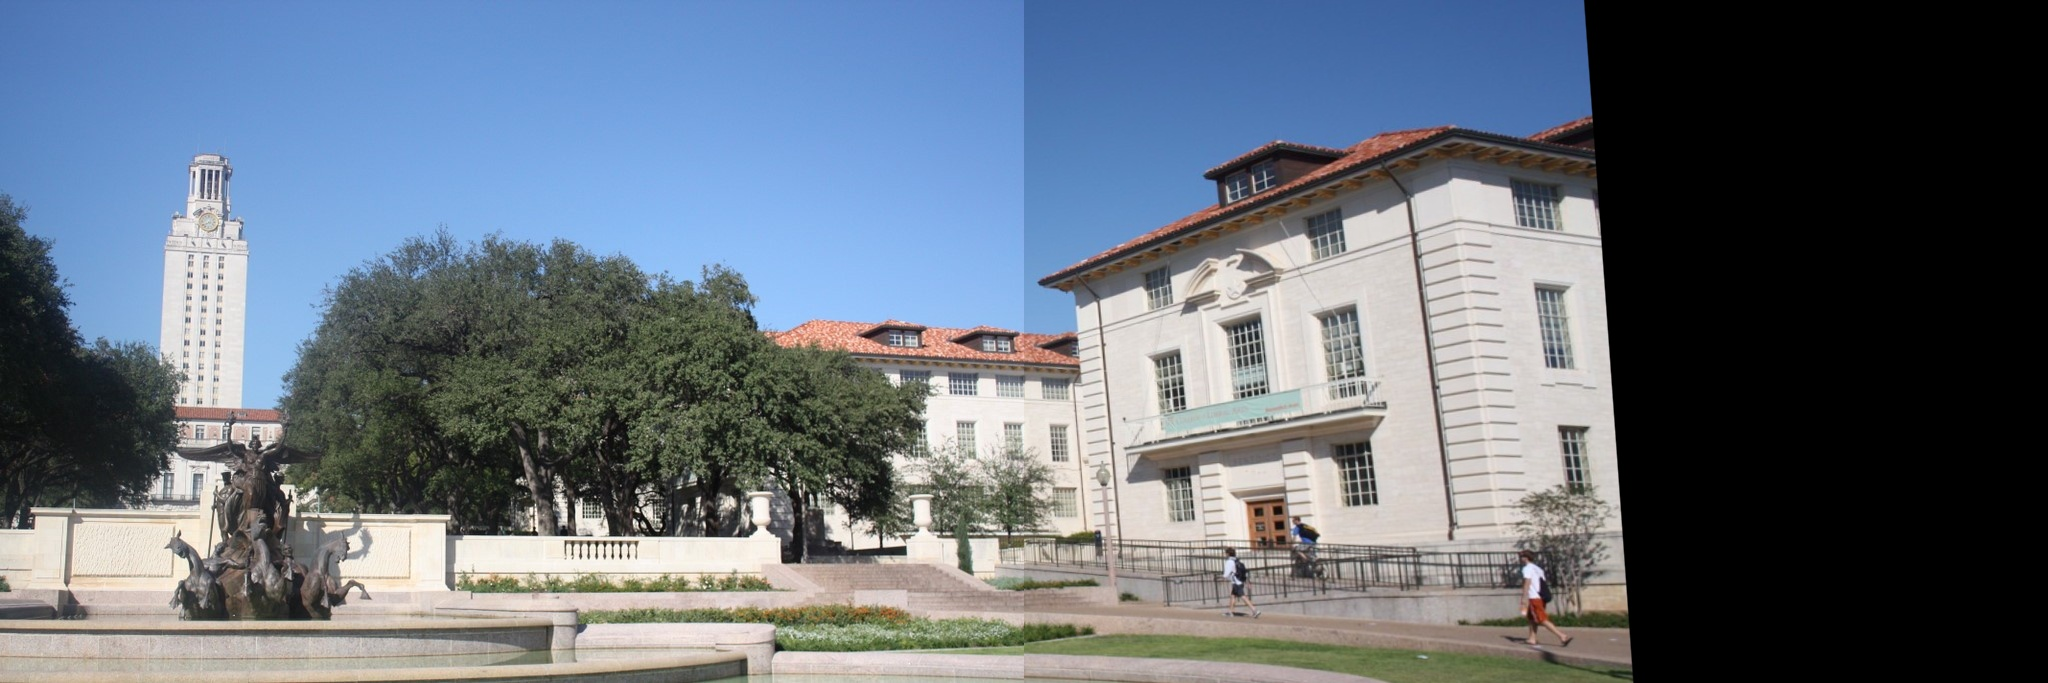
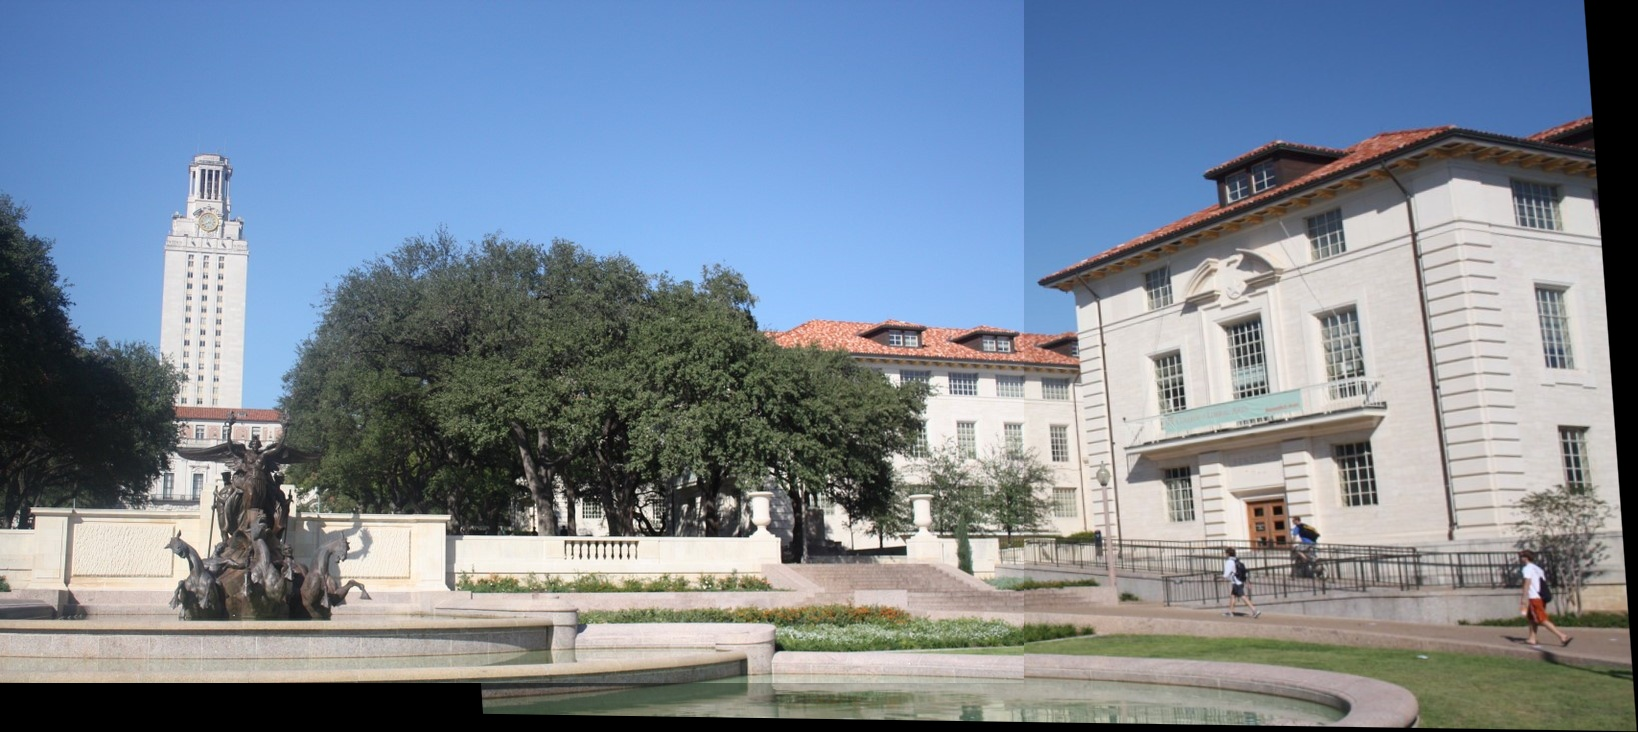
Improved panoramic image size

diff --git a/projeto 4/panoramic_image.py b/projeto 4/panoramic_image.py
@@ -4,10 +4,13 @@ import numpy as np
 
 class PanoramicImage:
 
-    def __init__(self, image_path):
-        self.image = self.original_image = cv2.imread(image_path)
-        self.key_points = None
-        self.descriptor = None
+    def __init__(self, image_path=None):
+        self.image_path = image_path
+
+        if image_path is not None:
+            self.image = self.original_image = cv2.imread(image_path)
+            self.key_points = None
+            self.descriptor = None
 
     def reset_to_original_image(self) -> None:
         """
@@ -34,7 +37,7 @@ class PanoramicImage:
         homography_matrix, _ = cv2.findHomography(points1, points2, cv2.RANSAC, 5.0)
         return homography_matrix
 
-    def merge_panoramic(self, other_image: 'PanoramicImage', homography_matrix):
+    def merge_panoramic(self, other_image: 'PanoramicImage', homography_matrix) -> 'PanoramicImage':
         """
         Casa duas imagens para formar uma foto panorâmica
         :param other_image: imagem a casar
@@ -46,23 +49,54 @@ class PanoramicImage:
         rows_2 = other_image.image.shape[0]
         cols_2 = other_image.image.shape[1]
 
-        result_image_rows = max(rows_1, rows_2)
+        result_image_rows = rows_1 + rows_2
         result_image_cols = cols_1 + cols_2
 
         result = cv2.warpPerspective(self.image, homography_matrix, (result_image_cols, result_image_rows))
-        result[0:result_image_rows, 0:cols_2] = other_image.image
+        result[0:rows_2, 0:cols_2] = other_image.image
 
-        return result
+        panoramic_image = PanoramicImage()
+        panoramic_image.image = result
 
-    def image_matches(self, other_image: 'PanoramicImage', max_draw=15):
+        return panoramic_image
+
+    def image_matches(self, other_image: 'PanoramicImage', max_draw=15) -> 'PanoramicImage':
         """
         Desenha as duas imagens e suas semelhanças
         :param other_image: imagem a ser comparada
         :param max_draw: quantidade máxima de semelhanças a serem desenhadas
-        :return:
+        :return: imagem com retas entre seus pontos de semelhança
         """
         bf = cv2.BFMatcher(cv2.NORM_HAMMING, crossCheck=True)
         matches = bf.match(self.descriptor, other_image.descriptor)
+
         result = np.zeros(shape=(self.image.shape[0], self.image.shape[1] + other_image.image.shape[1]))
         result = cv2.drawMatches(self.image, self.key_points, other_image.image, other_image.key_points, matches[:max_draw], result, flags=2)
-        return result
+
+        image_matches = PanoramicImage()
+        image_matches.image = result
+
+        return image_matches
+
+    def save(self) -> None:
+        """
+        Salva a imagem atual no path dela
+        """
+        cv2.imwrite(self.image_path, self.image)
+
+    def crop_borders(self) -> None:
+        """
+        Remove as bordas pretas a direita e inferior da imagem panorâmica
+        """
+        last_empty_row = self.image.shape[0]
+        last_empty_col = self.image.shape[1]
+
+        # Remove borda da direita
+        while np.sum(self.image[last_empty_row - 1, 0:-1]) == 0:
+            last_empty_row -= 1
+
+        # Remove borda inferior
+        while np.sum(self.image[0:-1, last_empty_col - 1]) == 0:
+            last_empty_col -= 1
+
+        self.image = self.image[0:last_empty_row, 0:last_empty_col]

diff --git a/projeto 4/panoramic_image_generator.py b/projeto 4/panoramic_image_generator.py
@@ -1,5 +1,3 @@
-import cv2
-
 from algorithms import Algorithm
 from panoramic_image import PanoramicImage
 
@@ -58,5 +56,10 @@ class PanoramicImageGenerator:
 
             # Escreve os resultados em arquivo
             base_path = self.result_dir + result_filename
-            cv2.imwrite(base_path + '_lines.jpeg', image_with_lines)
-            cv2.imwrite(base_path + '_panoramic.jpeg', panoramic_image)
+
+            image_with_lines.image_path = base_path + '_lines.jpeg'
+            image_with_lines.save()
+
+            panoramic_image.image_path = base_path + '_panoramic.jpeg'
+            panoramic_image.crop_borders()
+            panoramic_image.save()
